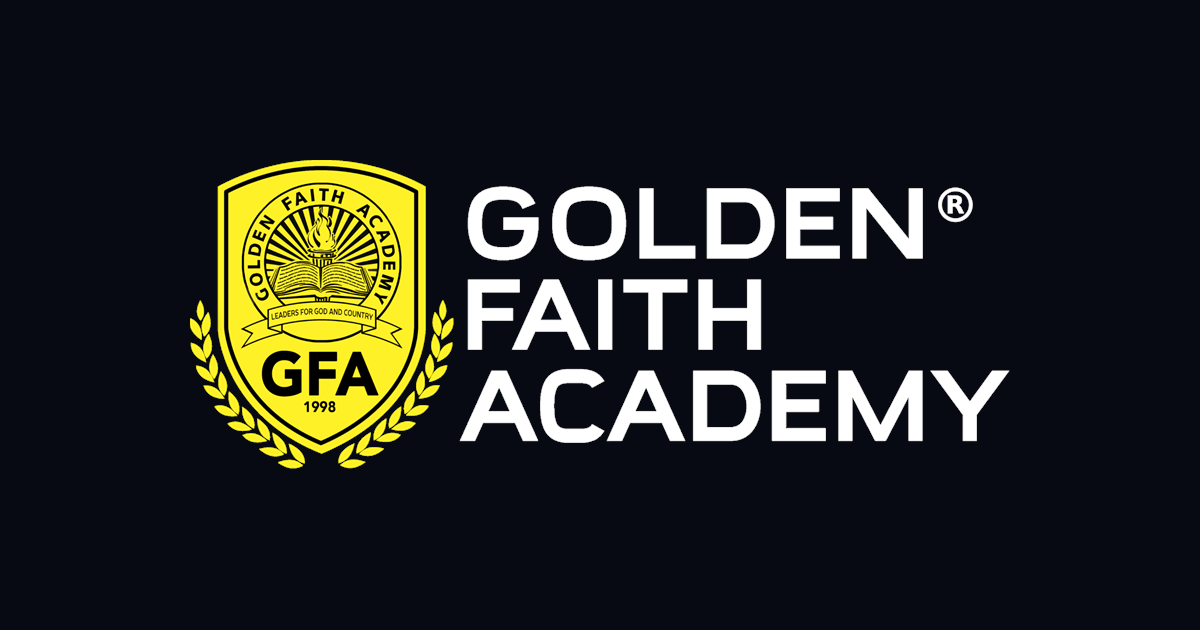
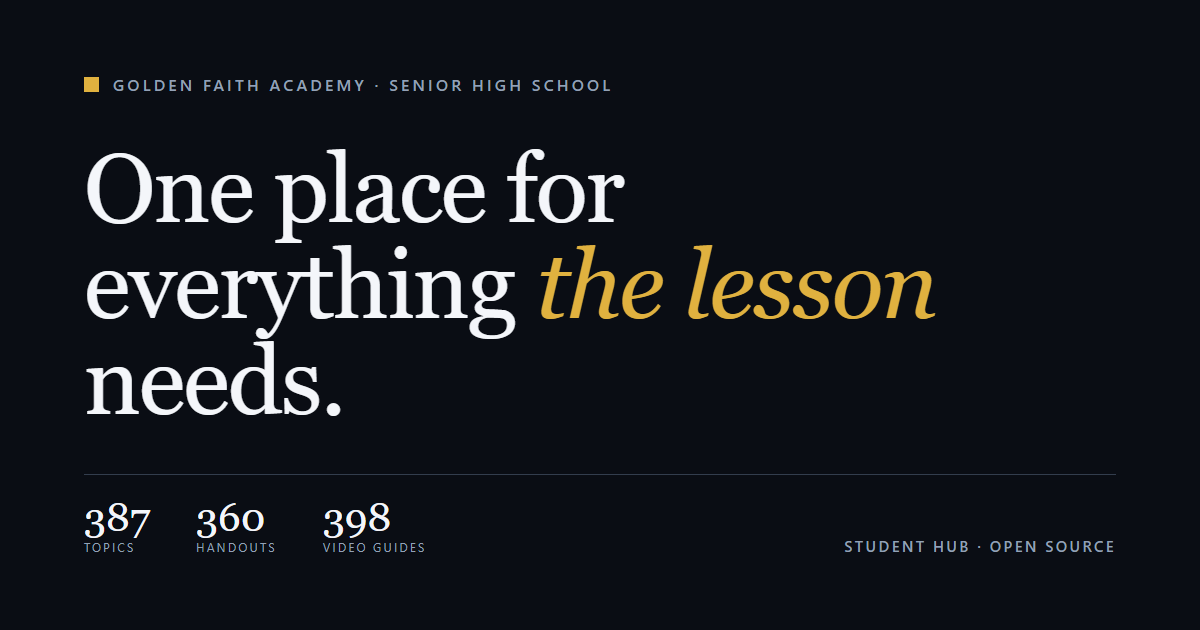
Remove the school crest and every asset carrying it
The crest is the academy's registered mark. This is an independent
student project that the notice section explicitly says is not operated
by, endorsed by or affiliated with the school, so shipping the mark on
every page contradicted the disclaimer directly underneath it.

Removed from the mastheads, both colophons, the 404 page and the
decorative watermark behind the closing panel. The wordmark now carries
a small typographic tick instead, which turns on hover.

The social card was the full logo lockup including the registered
trademark symbol, so it is replaced with a typographic card built from
the site's own type and figures. The favicon was a shield in the crest
yellow; it is now a neutral mark. The apple touch icon is regenerated to
match, and gfa-crest.png is deleted since nothing references it.

The notice text said the crest appears descriptively. That is no longer
true, so it now states that no school logo or mark is used anywhere.

The school name and strand names stay. Those are descriptive and the
project needs them to say who the material is for.

diff --git a/index.html b/index.html
@@ -27,7 +27,6 @@
 <header class="masthead" data-open="false">
   <div class="spread masthead-inner">
     <a class="wordmark" href="#top">
-      <img class="crest" src="assets/img/gfa-crest.png" alt="" width="307" height="360" decoding="async">
       <span class="wordmark-text">
         <b>Golden Faith Academy</b>
         <span>Student Hub</span>
@@ -296,7 +295,7 @@
         <div>
           <span class="label">Independent project</span>
           <h3>Not an official school site.</h3>
-          <p>This is a student-built project, made and published as portfolio work. It is not operated by Golden Faith Academy, it is not endorsed by or affiliated with the administration or the faculty, and it speaks for nobody but the students who put it together. The school name, crest and strand names appear here to describe who the material is for, and for no other reason.</p>
+          <p>This is a student-built project, made and published as portfolio work. It is not operated by Golden Faith Academy, it is not endorsed by or affiliated with the administration or the faculty, and it speaks for nobody but the students who put it together. The school name and the strand names appear here to describe who the material is for, and for no other reason. No school logo, crest or other mark is used anywhere on this site.</p>
           <p>The official Golden Faith Academy website is at <a href="https://www.gfa.edu.ph/" target="_blank" rel="noopener">gfa.edu.ph</a>. Anything about admissions, tuition, requirements or school policy belongs there, not here.</p>
         </div>
         <div>
@@ -337,7 +336,6 @@
   </section>
 
   <section class="closing">
-    <div class="closing-crest" aria-hidden="true"></div>
     <div class="spread">
       <p class="kicker"><span class="label">What is on it now</span></p>
       <h2 class="display" data-reveal>Semester one is <em>on the shelf</em>.</h2>
@@ -355,7 +353,6 @@
     <div class="colophon-grid">
       <div>
         <a class="wordmark" href="#top">
-          <img class="crest" src="assets/img/gfa-crest.png" alt="" width="307" height="360" decoding="async" loading="lazy">
           <span class="wordmark-text">
             <b>Golden Faith Academy</b>
             <span>Student Hub</span>

diff --git a/assets/css/main.css b/assets/css/main.css
@@ -236,19 +236,20 @@ section[id], main[id] { scroll-margin-top: clamp(80px, 11vh, 116px); }
   flex: 0 0 auto;
 }
 
-.crest {
-  height: 40px;
-  width: auto;
-  display: block;
-  flex: 0 0 auto;
+.wordmark-text { display: flex; flex-direction: column; line-height: 1.18; }
+
+.wordmark-text b::before {
+  content: "";
+  display: inline-block;
+  width: .5rem;
+  height: .5rem;
+  margin-right: .55rem;
+  vertical-align: .06em;
+  background: var(--accent);
   transition: transform .4s var(--ease);
 }
 
-.wordmark:hover .crest { transform: translateY(-1px); }
-
-.colophon .crest { height: 50px; }
-
-.wordmark-text { display: flex; flex-direction: column; line-height: 1.18; }
+.wordmark:hover .wordmark-text b::before { transform: rotate(45deg); }
 
 .wordmark-text b {
   font-family: var(--display);
@@ -929,17 +930,6 @@ section[id], main[id] { scroll-margin-top: clamp(80px, 11vh, 116px); }
   overflow-x: clip;
 }
 
-.closing-crest {
-  position: absolute;
-  top: 50%; left: 50%;
-  width: clamp(220px, 28vw, 360px);
-  aspect-ratio: 307 / 360;
-  transform: translate(-50%, -50%);
-  background: url("../img/gfa-crest.png") no-repeat center / contain;
-  opacity: .045;
-  pointer-events: none;
-  z-index: -1;
-}
 
 .closing .kicker { justify-content: center; }
 .closing .kicker::after { display: none; }
@@ -1319,7 +1309,6 @@ section[id], main[id] { scroll-margin-top: clamp(80px, 11vh, 116px); }
   .masthead-nav a { padding-block: .9rem; border-bottom: 1px solid var(--rule); }
   .masthead-nav a::after { display: none; }
 
-  .crest { height: 36px; }
   .wordmark-text b { font-size: .95rem; }
 
   .strand-row { grid-template-columns: minmax(0, 1fr); row-gap: .45rem; }
@@ -1358,6 +1347,6 @@ section[id], main[id] { scroll-margin-top: clamp(80px, 11vh, 116px); }
 
 @media print {
   body { background: #fff; color: #000; }
-  body::before, body::after, .masthead, .progress, .closing-crest { display: none !important; }
+  body::before, body::after, .masthead, .progress { display: none !important; }
   .js [data-reveal] { opacity: 1 !important; transform: none !important; }
 }

diff --git a/resources.html b/resources.html
@@ -25,7 +25,6 @@
 <header class="masthead" data-open="false">
   <div class="spread masthead-inner">
     <a class="wordmark" href="index.html">
-      <img class="crest" src="assets/img/gfa-crest.png" alt="" width="307" height="360" decoding="async">
       <span class="wordmark-text">
         <b>Golden Faith Academy</b>
         <span>Student Hub</span>
@@ -85,7 +84,6 @@
     <div class="colophon-grid">
       <div>
         <a class="wordmark" href="index.html">
-          <img class="crest" src="assets/img/gfa-crest.png" alt="" width="307" height="360" decoding="async" loading="lazy">
           <span class="wordmark-text">
             <b>Golden Faith Academy</b>
             <span>Student Hub</span>

diff --git a/404.html b/404.html
@@ -18,7 +18,6 @@
 <header class="masthead" data-open="false">
   <div class="spread masthead-inner">
     <a class="wordmark" href="index.html">
-      <img class="crest" src="assets/img/gfa-crest.png" alt="" width="307" height="360" decoding="async">
       <span class="wordmark-text">
         <b>Golden Faith Academy</b>
         <span>Student Hub</span>
